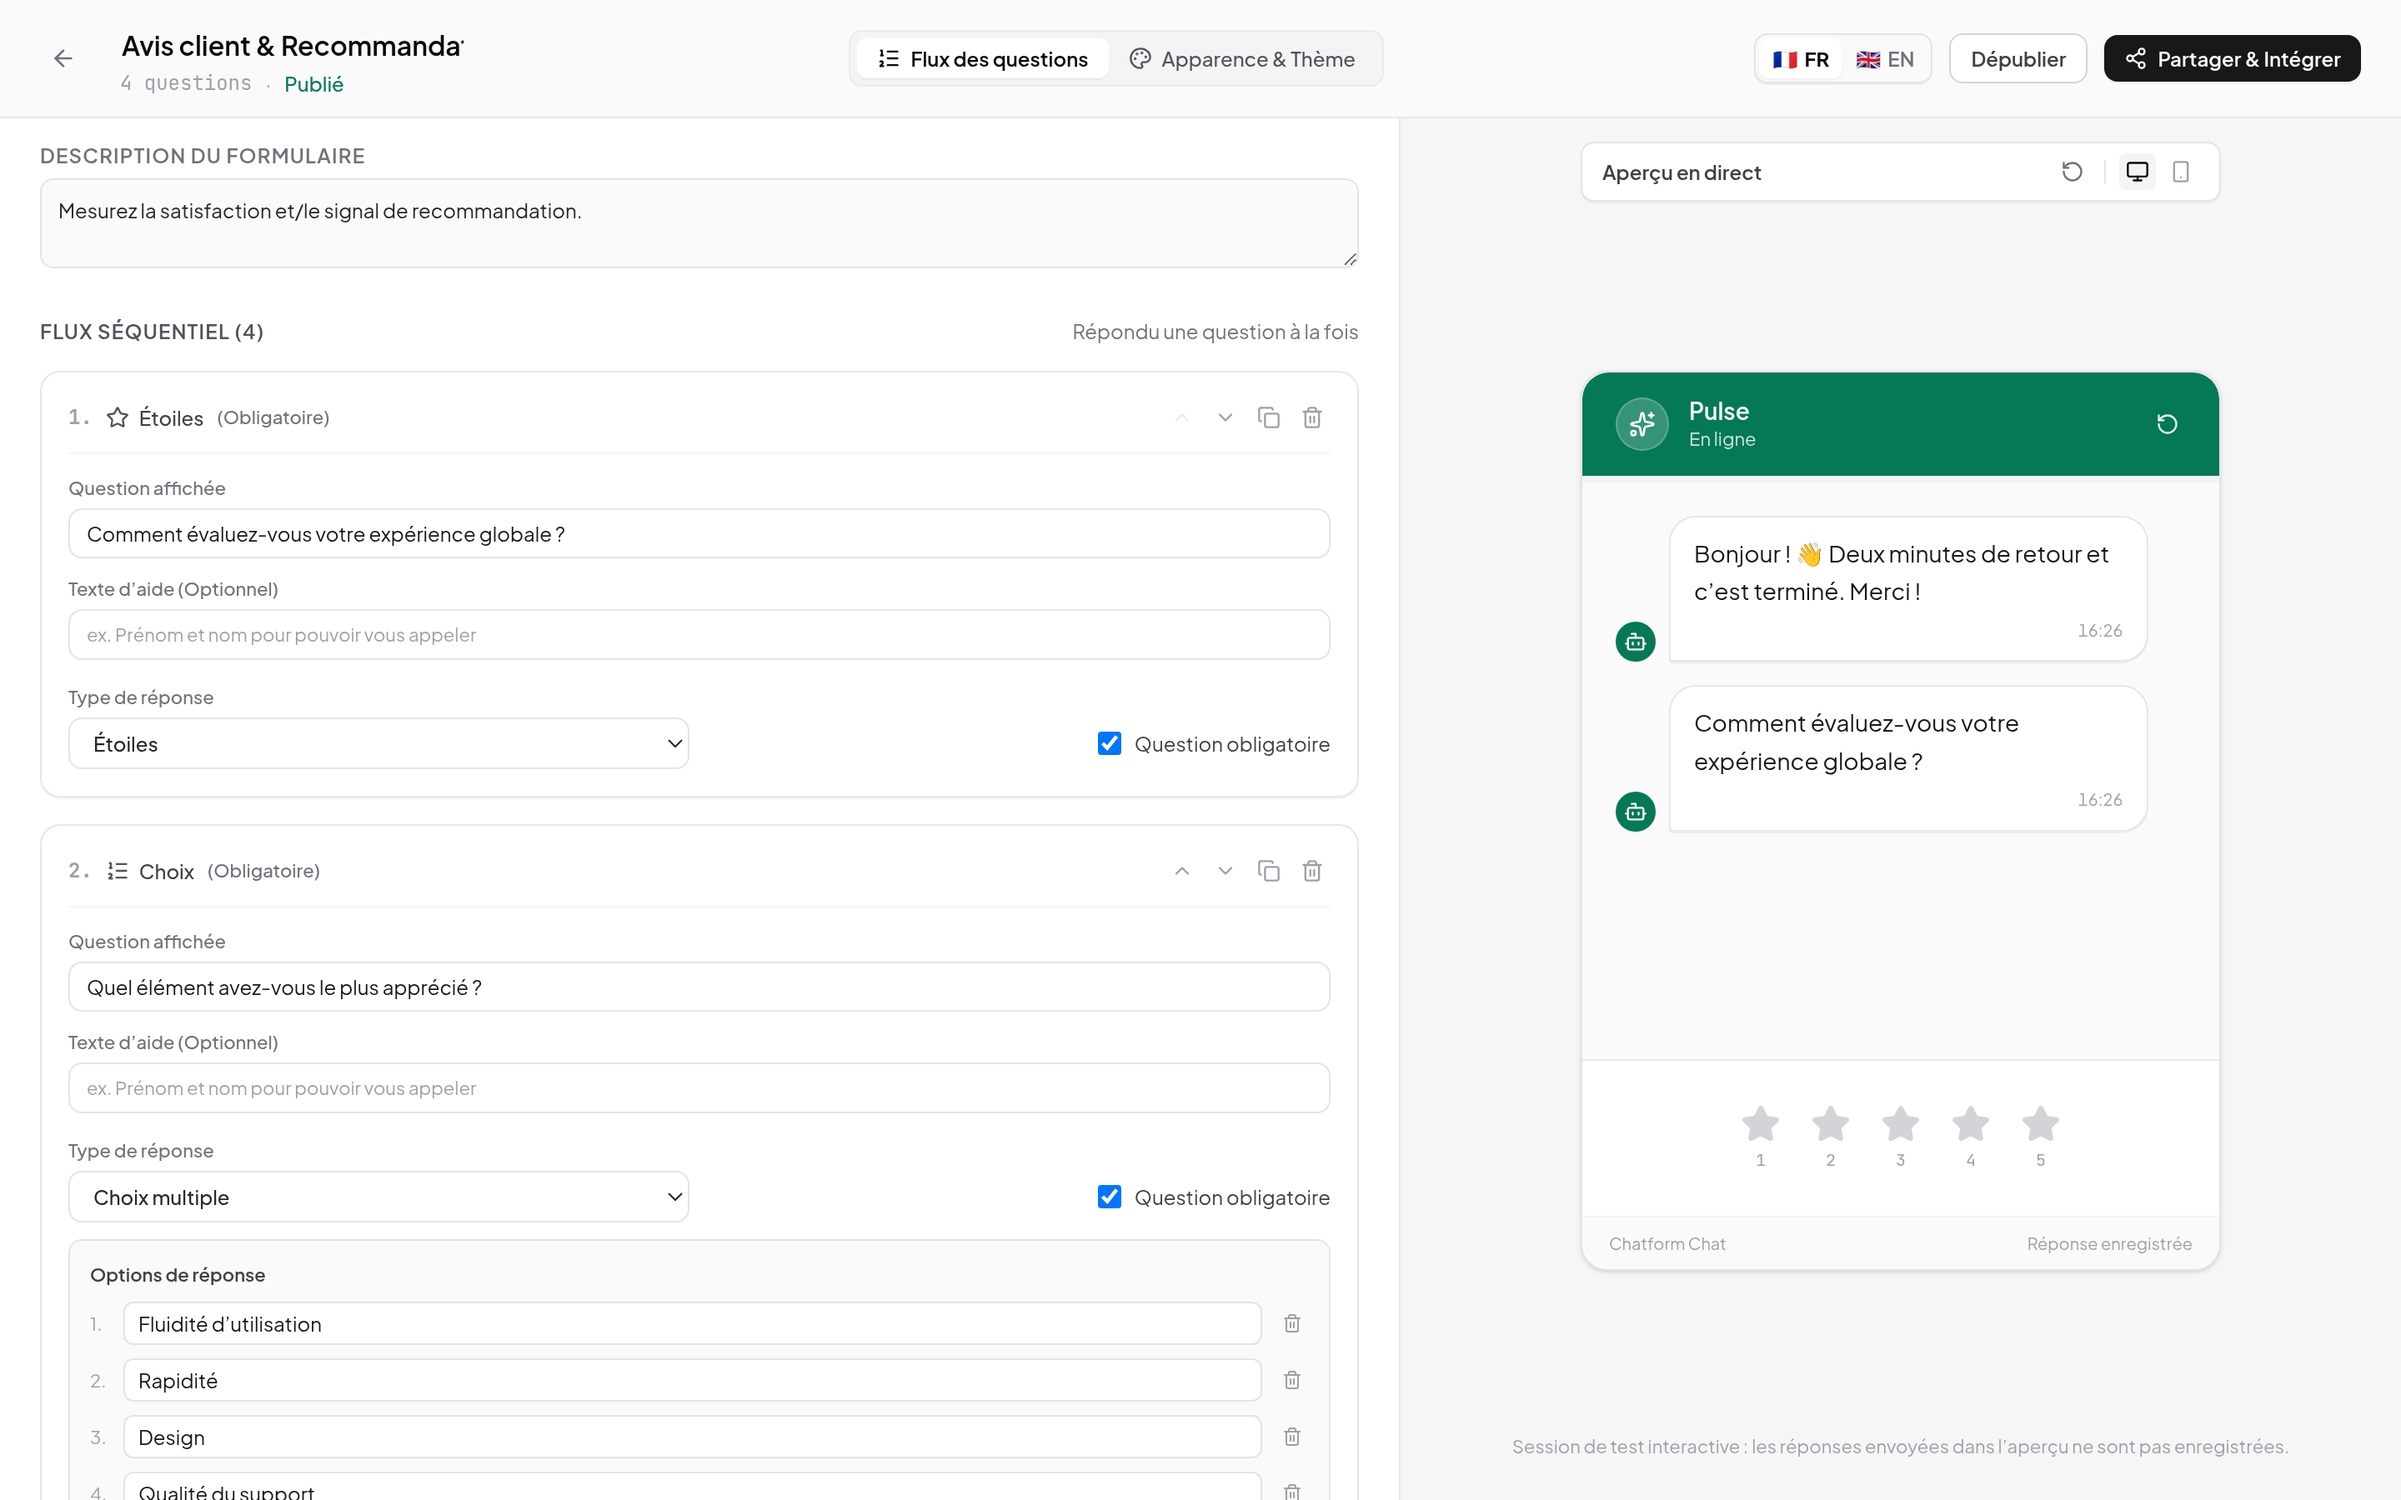
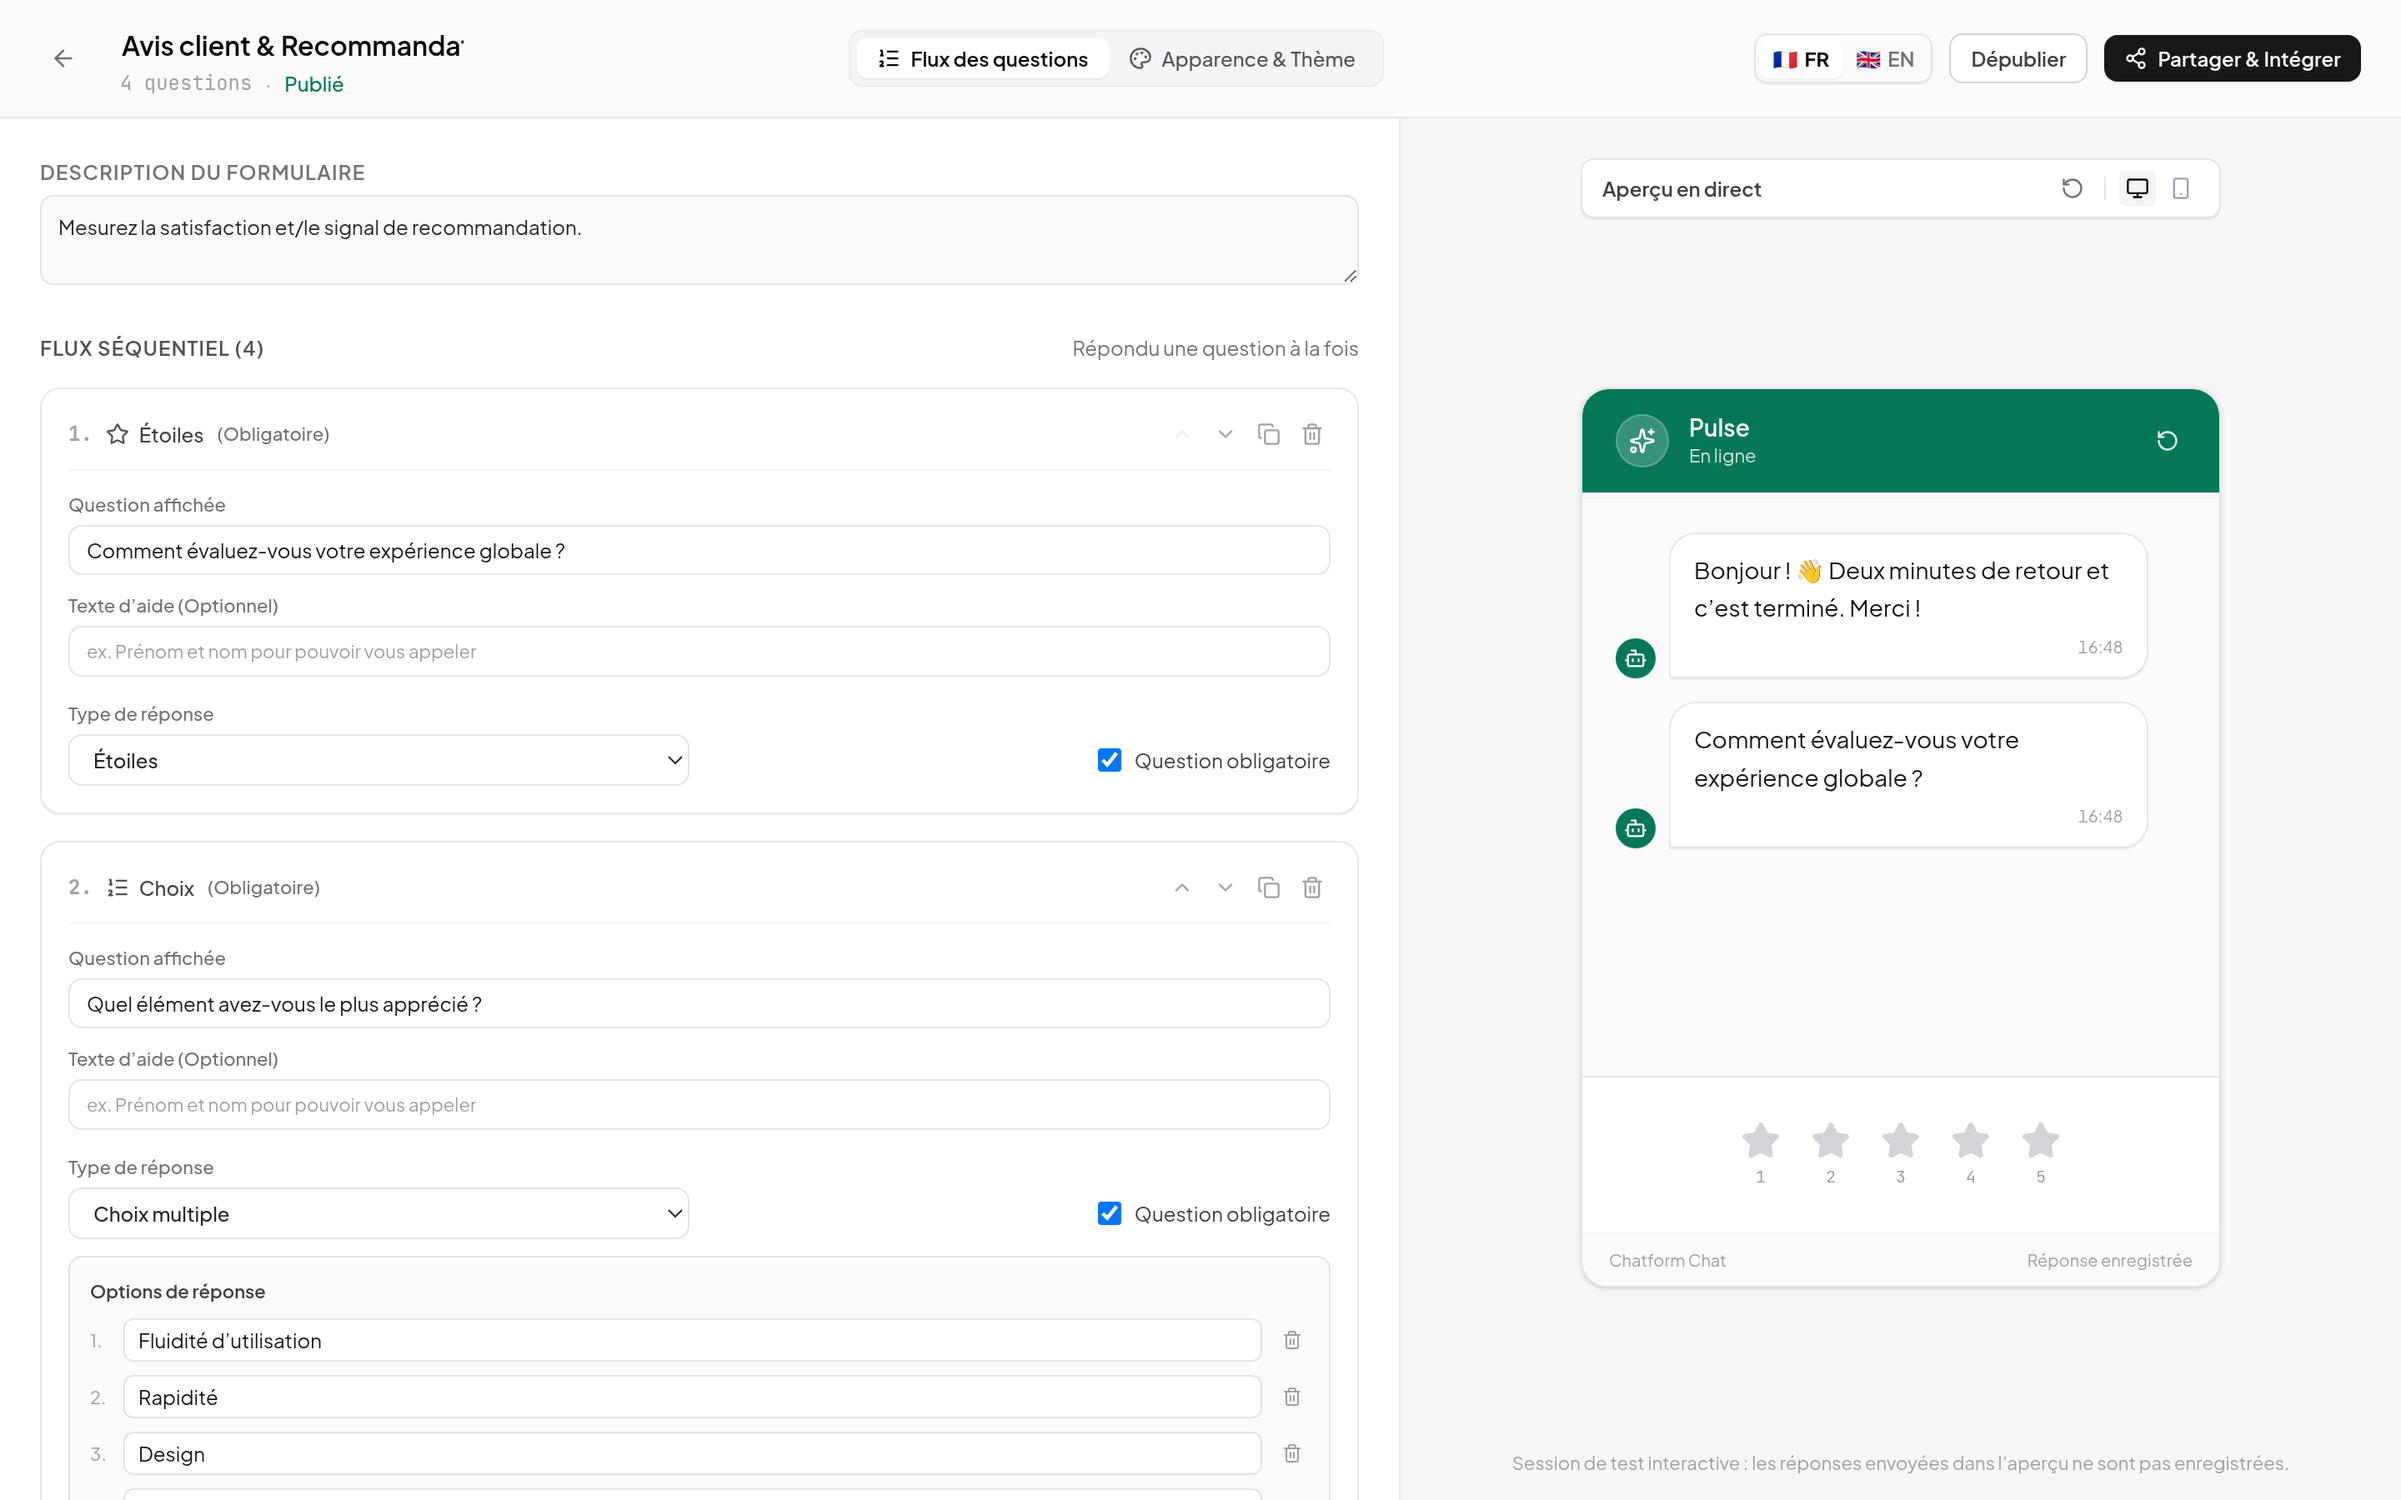
Make the screenshots reproducible evidence
- scripts/screenshots.mjs: drives headless Chrome over the DevTools
  protocol, signs in with the demo account and regenerates the nine
  captures (including interactive states: the embed dialog opened by a
  click, the rating hovered with a real mouse move)
- npm run screenshots runs it; the URL and the credentials are
  configurable through CHATFORM_URL / CHATFORM_EMAIL / CHATFORM_PASSWORD
- docs/screenshots/README.md documents how each capture is produced
- The README gallery now points at that documentation

diff --git a/docs/screenshots/README.md b/docs/screenshots/README.md
@@ -1,0 +1,40 @@
+# Screenshots
+
+These images are the **proof** of the feature list in the main README: they are
+real captures of a running Chatform instance, not mockups.
+
+## How they were taken
+
+```bash
+npm run build && npm start     # a running instance on :3000
+npm run screenshots            # regenerates every image below
+```
+
+The script (`scripts/screenshots.mjs`) drives a headless Chrome over the
+DevTools protocol. It signs in with the demo account, sets the session cookie
+and the UI language, and captures the nine screens — including interactive
+states that a plain screenshot cannot show:
+
+| File | Screen | How |
+|---|---|---|
+| `landing.png` | Landing page (FR) | viewport |
+| `landing-en.png` | Landing page (EN) | `localStorage` language switched |
+| `dashboard.png` | Dashboard — KPIs, forms, recommendation rate | authenticated |
+| `builder.png` | Form builder — questions, required flags, live preview | authenticated |
+| `responses.png` | Responses — breakdown, advocacy score, export | authenticated |
+| `embed.png` | Embed dialog — the one-line snippet | the *Intégrer* button is clicked |
+| `widget.png` | Chat widget — one question at a time | public page, `Accept-Language: fr` |
+| `rating.png` | Rating — hovering a star fills the scale | a real mouse move over the 4th star |
+| `mobile.png` | Landing page | 390 × 844 viewport |
+
+## Options
+
+```bash
+CHATFORM_URL=https://your-deployment.example   # default http://localhost:3000
+CHATFORM_EMAIL=demo@chatform.dev
+CHATFORM_PASSWORD=demo1234
+CHROME_BIN=/usr/bin/chromium                   # auto-detected otherwise
+```
+
+The captures are deterministic enough to diff between two versions, which
+makes them useful as visual regression evidence.

diff --git a/README.md b/README.md
@@ -27,6 +27,10 @@ The interface and the form content are both available in French and English:
 switching the language reloads the workspace, and every form carries a
 translation for its title, description, bot messages and every question.
 
+These captures are real — they are regenerated from a running instance with
+`npm run screenshots` (see [docs/screenshots](docs/screenshots/README.md)),
+so they can be diffed between two versions as visual evidence.
+
 ---
 
 ## ✨ Features
